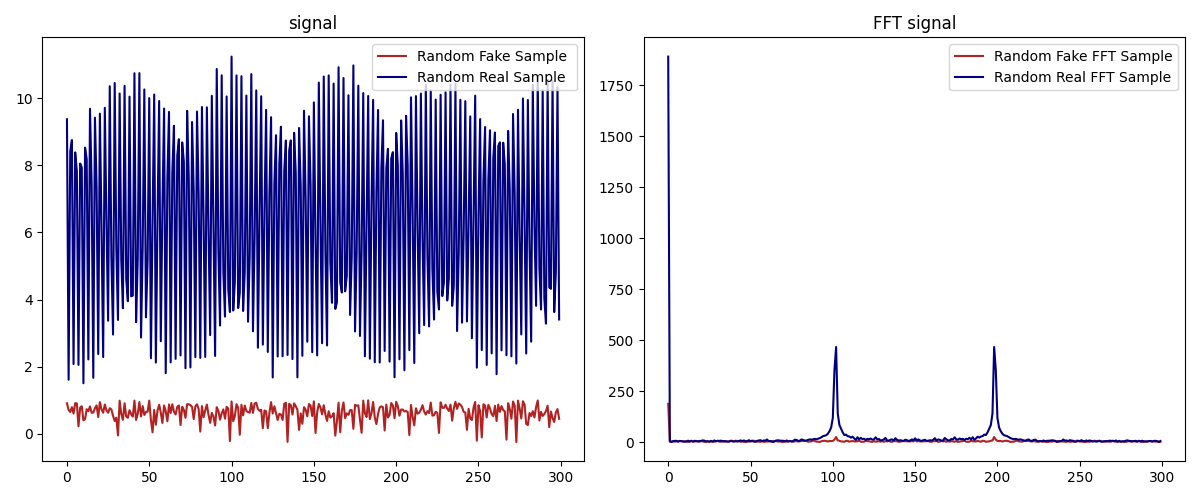
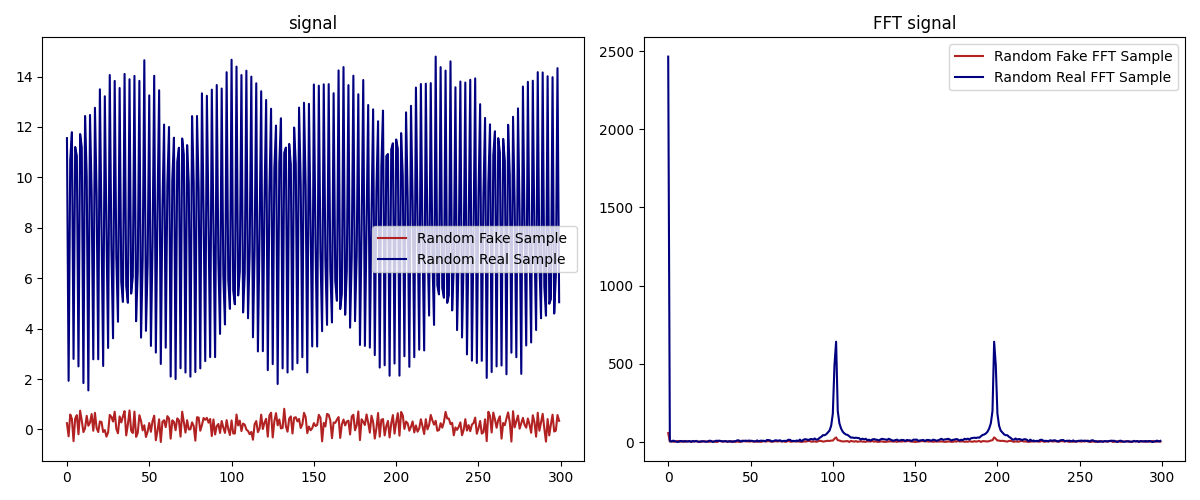
version2 : 버전 2, 구조 설정

diff --git a/bearing/siganlGeneratorByGan/test2.py b/bearing/siganlGeneratorByGan/test2.py
@@ -1,3 +1,244 @@
 import torch
-print(f"MPS 장치를 지원하도록 build가 되었는가? {torch.backends.mps.is_built()}")
-print(f"MPS 장치가 사용 가능한가? {torch.backends.mps.is_available()}")
+import torch.nn as nn
+import torch.optim as optim
+import numpy as np
+import matplotlib.pyplot as plt
+from scipy.fft import fft
+from sklearn.metrics import mean_squared_error
+
+LENGTH_INPUT = 300
+POPULATION_SIZE = 50
+MAX_GENERATIONS = 100
+
+
+# define the standalone discriminator model
+class Discriminator(nn.Module):
+    def __init__(self, n_inputs=LENGTH_INPUT):
+        super(Discriminator, self).__init__()
+        self.model = nn.Sequential(
+            nn.Linear(n_inputs, LENGTH_INPUT),
+            nn.ReLU(),
+            nn.Linear(LENGTH_INPUT, 250),
+            nn.ReLU(),
+            nn.Linear(250, 100),
+            nn.ReLU(),
+            nn.Linear(100, 1),
+            nn.Sigmoid()
+        )
+
+    def forward(self, x):
+        return self.model(x)
+
+
+# define the standalone generator model
+class Generator(nn.Module):
+    def __init__(self, input_size, output_size):
+        super(Generator, self).__init__()
+        self.model = nn.Sequential(
+            nn.Linear(input_size, 128),
+            nn.ReLU(),
+            nn.Linear(128, 256),
+            nn.ReLU(),
+            nn.Linear(256, 512),
+            nn.ReLU(),
+            nn.Linear(512, output_size),
+            nn.Tanh()
+        )
+
+    def forward(self, x):
+        return self.model(x)
+
+
+# generate n real samples with class labels
+def generate_faulty_samples(n, fault_type):
+    amps = np.arange(0.1, 10, 0.1)
+    bias = np.arange(0.1, 10, 0.1)
+    freqs = np.linspace(1, 2, 1000)
+    X2 = np.linspace(-5, 5, LENGTH_INPUT)
+    X1 = []
+    for x in range(n):
+        noise = np.random.normal(size=len(X2))
+
+        if fault_type == 'ball':
+            fault_frequency = 500
+        elif fault_type == 'outer_race':
+            fault_frequency = 1000
+        elif fault_type == 'inner_race':
+            fault_frequency = 1500
+        elif fault_type == 'roller':
+            fault_frequency = 2000
+        else:
+            raise ValueError("Invalid fault type. Supported types: 'ball', 'outer_race', 'inner_race', 'roller'")
+
+        X1.append(
+            np.random.choice(amps) * np.sin(X2 * fault_frequency) + np.random.choice(bias) + 0.3 * noise)
+    X1 = np.array(X1).reshape(n, LENGTH_INPUT)
+    # generate class labels
+    y = np.ones((n, 1))
+    return X1, y
+
+
+# generate points in latent space as input for the generator
+def generate_latent_points(latent_dim, n):
+    # generate points in the latent space
+    x_input = np.random.randn(n, latent_dim)
+    # reshape into a batch of inputs for the network
+    x_input = x_input.reshape(n, latent_dim)
+    return x_input
+
+
+# use the generator to generate n fake examples, with class labels
+def generate_fake_samples(generator, latent_dim, n):
+    # Generate points in latent space
+    x_input = generate_latent_points(latent_dim, n)
+    # Convert to PyTorch tensor
+    x_input = torch.from_numpy(x_input).float()
+    # Generate output
+    X = generator(x_input)
+    # Create fake labels
+    y = torch.zeros((n, 1))
+    return X, y
+
+
+# calculate the fitness score for a set of chromosomes
+def calculate_fitness(chromosomes, gan_model, generation):
+    fitness_scores = []
+    for chromosome in chromosomes:
+        latent_dim = chromosome.shape[0]
+        generator, discriminator = gan_model
+        # Resize or reshape the chromosome to match the expected shape
+        resized_chromosome = np.tile(chromosome, (128, 1))
+
+        # Create a new state dictionary
+        state_dict = {
+            'model.0.weight': torch.from_numpy(resized_chromosome).float(),
+            'model.0.bias': generator.model[0].bias,
+            'model.2.weight': generator.model[2].weight,
+            'model.2.bias': generator.model[2].bias,
+            'model.4.weight': generator.model[4].weight,
+            'model.4.bias': generator.model[4].bias,
+            'model.6.weight': generator.model[6].weight,
+            'model.6.bias': generator.model[6].bias
+        }
+
+        # Update generator's weights
+        generator.load_state_dict(state_dict)
+
+        # Generate fake samples
+        X, y = generate_fake_samples(generator, latent_dim, POPULATION_SIZE)
+        # Evaluate GAN performance
+        mse = evaluate_gan_performance(X, discriminator)
+        fitness_scores.append(1 / mse)
+    return fitness_scores
+
+
+# evaluate the GAN performance
+def evaluate_gan_performance(samples, discriminator):
+    y_pred = discriminator(samples)
+    y_true = torch.zeros(samples.size(0), 1)
+    mse = mean_squared_error(y_true.detach().numpy(), y_pred.detach().numpy())
+    return mse
+
+
+# create a random sample of input noise for the generator
+def generate_noise(latent_dim, n):
+    x_input = np.random.randn(latent_dim * n)
+    x_input = x_input.reshape(n, latent_dim)
+    return x_input
+
+
+# train the generator and discriminator
+def train(gan_model, n_epochs, n_eval=10):
+    generator, discriminator = gan_model
+    latent_dim = generator.model[0].in_features
+    population = [generate_noise(latent_dim, 1) for _ in range(POPULATION_SIZE)]
+    best_chromosome = None
+    best_fitness = float('-inf')
+    all_fitness = []
+
+    for generation in range(n_epochs):
+        fitness_scores = calculate_fitness(population, gan_model, generation)
+        all_fitness.append(max(fitness_scores))
+
+        if max(fitness_scores) > best_fitness:
+            best_fitness = max(fitness_scores)
+            best_chromosome = population[np.argmax(fitness_scores)]
+
+        if (generation + 1) % n_eval == 0:
+            print(f"Generation {generation + 1}, Best Fitness: {best_fitness}")
+
+            # Generate and save the graph
+            plt.figure(figsize=(12, 5))
+            plt.title(f'Generation {generation + 1}')
+            with torch.no_grad():
+                gen_samples, _ = generate_fake_samples(generator, latent_dim, 1)
+                real_samples, _ = generate_faulty_samples(latent_dim, 'ball')
+
+                real_samples_tensor = torch.Tensor(real_samples)
+                fft_real_samples = torch.fft.fft(real_samples_tensor)
+
+                gen_samples_tensor = torch.Tensor(gen_samples)
+                fft_fake_samples = torch.fft.fft(gen_samples_tensor)
+
+                plt.subplot(1, 2, 2)
+                plt.plot(np.abs(fft_fake_samples[0]), '-', label='Random Fake FFT Sample', color='firebrick')
+                plt.plot(np.abs(fft_real_samples[0]), '-', label='Random Real FFT Sample', color='navy')
+                plt.title('FFT signal')
+                plt.legend(fontsize=10)
+
+                plt.subplot(1, 2, 1)
+                plt.plot(gen_samples[0], '-', label='Random Fake Sample', color='firebrick')
+                plt.plot(real_samples[0], '-', label='Random Real Sample', color='navy')
+                plt.title('Signal')
+                plt.legend(fontsize=10)
+
+            plt.legend(fontsize=10)
+            plt.tight_layout()
+            plt.savefig(f'img/Ver2-ball-graph_g-{generation + 1}.png')
+            plt.close()
+
+        # Select parents for reproduction
+        parents = np.random.choice(population, size=POPULATION_SIZE // 2, replace=False)
+        # Perform crossover
+        offspring = []
+        for parent in parents:
+            index = np.random.randint(0, latent_dim)
+            offspring.append(np.concatenate((best_chromosome[:index], parent[index:])))
+        offspring = parents + offspring
+        # Update population with offspring
+        population = offspring
+
+    # Save the generator model
+    torch.save(generator.state_dict(), 'generator_model.pth')
+
+    return best_chromosome
+
+# define the GAN model
+def define_gan(latent_dim, output_size):
+    generator = Generator(latent_dim, output_size)
+    discriminator = Discriminator()
+    gan_model = (generator, discriminator)
+    return gan_model
+
+
+# define the number of dimensions in the latent space
+latent_dim = 10
+output_size = LENGTH_INPUT
+
+# define the GAN model
+gan_model = define_gan(latent_dim, output_size)
+
+# set the device for training
+device = torch.device("cuda" if torch.cuda.is_available() else "cpu")
+generator, discriminator = gan_model
+generator = generator.to(device)
+discriminator = discriminator.to(device)
+
+# train the GAN
+best_chromosome = train(gan_model, MAX_GENERATIONS)
+
+print("Best chromosome:")
+print(best_chromosome)
+
+# Save the generator model
+torch.save(generator.state_dict(), 'generator_model.pth')
